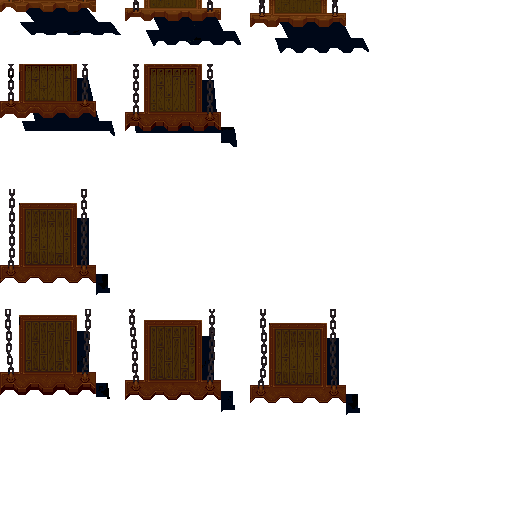
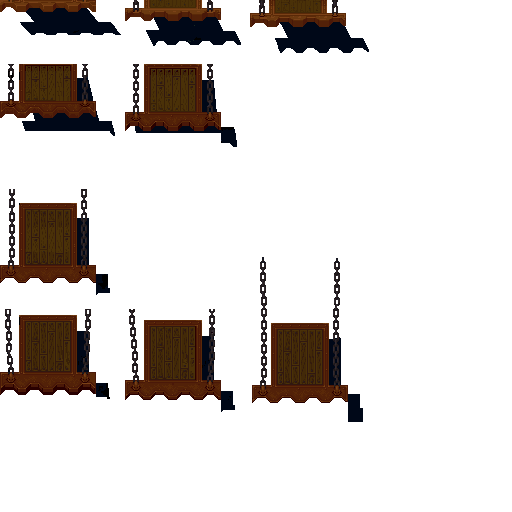
El sprite que falta, el ultim frame no sera part de la animacio

Changed region(s): [[0.4688, 0.5, 0.7188, 0.8438]]

diff --git a/GunBird - Coded Dreams/ModuleSceneCastle.cpp b/GunBird - Coded Dreams/ModuleSceneCastle.cpp
@@ -51,7 +51,7 @@ ModuleSceneCastle::ModuleSceneCastle()
 	anim_bridge.PushBack({ 0, 205 , 110, 106 });
 	anim_bridge.PushBack({ 0, 320, 117, 110 });
 	anim_bridge.PushBack({ 125, 320, 117, 110 });
-	anim_bridge.PushBack({ 250, 322, 117, 110 });
+	anim_bridge.PushBack({ 241, 250, 117, 165 });
 	anim_bridge.speed = 0.03f;
 
 	//knight
